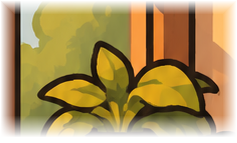
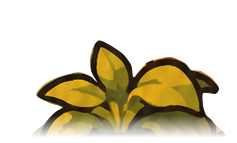
Moka odasi havasi: filtre kesigi, kar, yagmur, simsek, aksam gogu, kapali gecede ay, ogle evresi

diff --git a/src/components/RoomBackdrop.tsx b/src/components/RoomBackdrop.tsx
@@ -9,11 +9,11 @@ import { useActive } from '@/hooks/useActive';
 import type { SkyKind } from '@/lib/weather';
 import { clearNightCondition } from '@/domain/roomScene';
 
-/** Saate göre oda: 06:30-16:29 sabah, 16:30-19:29 akşam, 19:30-06:29 gece. */
+/** Saate göre oda: 06:30-10:59 sabah, 11:00-16:29 öğle, 16:30-19:29 akşam, 19:30-06:29 gece. */
 export function odaPhaseOf(d = new Date()): OdaPhase {
   const h = d.getHours() + d.getMinutes() / 60;
   if (h >= 19.5 || h < 6.5) return 'gece';
-  return h >= 16.5 ? 'aksam' : 'sabah';
+  return h >= 16.5 ? 'aksam' : h >= 11 ? 'ogle' : 'sabah';
 }
 /** Moka'nın oturduğu nokta (o saatin resminde yastığın ortası). */
 export const seatOf = (p: OdaPhase): Pt => ODA[p].seat;
@@ -131,14 +131,38 @@ const MOTES = {
 /** Havaya göre camın rengi ve yoğunluğu. */
 const GLASS: Partial<Record<SkyKind, { tone: string; op: number }>> = {
   cloudy: { tone: '#8C97A8', op: 0.36 }, rain: { tone: '#55657A', op: 0.48 }, storm: { tone: '#1E2533', op: 0.6 },
-  snow: { tone: '#E6EDF5', op: 0.38 }, fog: { tone: '#EEF1F4', op: 0.58 },
+  snow: { tone: '#BAC6D4', op: 0.62 }, fog: { tone: '#EEF1F4', op: 0.58 },
 };
 const SHELF_WALL: Record<OdaPhase, { clip: string; cx: number; cy: number; r: number; color: string }> = {
   sabah: { clip: 'M442 602H665V723H442Z', cx: 554, cy: 661, r: 122, color: '#D9A370' },
   aksam: { clip: 'M430 596H678V728H430Z', cx: 554, cy: 660, r: 128, color: '#BA7B55' },
+  ogle: { clip: 'M442 602H665V723H442Z', cx: 554, cy: 661, r: 122, color: '#F3D6B0' },
   gece: { clip: 'M430 595H678V728H430Z', cx: 554, cy: 660, r: 128, color: '#50343A' },
 };
-const RAIN_N = 12;
+/** Saatin gökyüzü rengi (cam): akşam gün batımı, öğle derin mavi, sabah hafif şeftali. Kapalı havada söner. */
+const SKY_TONE: Partial<Record<OdaPhase, { tone: string; op: number }>> = {
+  sabah: { tone: '#FFD9B0', op: 0.2 }, ogle: { tone: '#4FB3F0', op: 0.2 }, aksam: { tone: '#F2874F', op: 0.62 },
+};
+/** Kapalı havada odaya düşen serin loşluk. */
+const ROOM_WASH: Partial<Record<SkyKind, { tone: string; op: number }>> = {
+  cloudy: { tone: '#5A6472', op: 0.06 }, rain: { tone: '#3E4C5E', op: 0.14 }, storm: { tone: '#28323F', op: 0.24 },
+  snow: { tone: '#7F93AA', op: 0.1 }, fog: { tone: '#8B95A1', op: 0.08 },
+};
+/** Duvardaki ve yerdeki boyalı güneş lekelerini duvar rengine indiren katman (oda koordinatı). */
+const SUN_SHADE: Partial<Record<OdaPhase, number>> = {
+  sabah: require('../assets/oda/sabah_golge.png'),
+  ogle: require('../assets/oda/sabah_golge.png'),
+  aksam: require('../assets/oda/aksam_golge.png'),
+};
+/** Cam maskesinin, resimdeki eski yapraklar yüzünden boş kalan yerleri: hava rengi yaprak çevresinde hale bırakmasın. */
+const GLASS_FILL: Record<OdaPhase, number> = {
+  sabah: require('../assets/oda/sabah_cam_ek.png'),
+  ogle: require('../assets/oda/sabah_cam_ek.png'),
+  aksam: require('../assets/oda/aksam_cam_ek.png'),
+  gece: require('../assets/oda/gece_cam_ek.png'),
+};
+const SUN_SHADE_BOX: Box = { x: 0, y: 590, w: 480, h: 1090 };
+const RAIN_N = 42;
 
 /** Zincirin 7 ampulü: iki uç arasında hafifçe sarkar. */
 const chainPts = (L: OdaLayers) => Array.from({ length: 7 }, (_, i) => {
@@ -205,11 +229,13 @@ const TRAILING_STEMS = 'M313 342L316 342Q319 365 315 385L312 403L309 403L311 382
 const VINE_BACKGROUND_REPAIR = 'M292 290H330V600H292Z';
 const PLANT_SPRITE: Record<OdaPhase, number> = {
   sabah: require('../assets/oda/sabah_asma_detay.png'),
+  ogle: require('../assets/oda/sabah_asma_detay.png'),
   aksam: require('../assets/oda/aksam_asma_detay.png'),
   gece: require('../assets/oda/gece_asma_detay.png'),
 };
 const PLANT_BACKGROUND: Record<OdaPhase, number> = {
   sabah: require('../assets/oda/sabah_asma_zemin.png'),
+  ogle: require('../assets/oda/sabah_asma_zemin.png'),
   aksam: require('../assets/oda/aksam_asma_zemin.png'),
   gece: require('../assets/oda/gece_asma_zemin.png'),
 };
@@ -222,7 +248,7 @@ const HANGING_CUPS = {
 function PlanterBackdrop({ phase, s }: { phase: OdaPhase; s: number }) {
   const id = 'planter-background-' + useId().replace(/[^a-z0-9]/gi, '');
   const { box, src } = ODA[phase].parts.asma;
-  const art = PLANTER[phase];
+  const art = PLANTER[phase === 'ogle' ? 'sabah' : phase];
   return (
     <Svg pointerEvents="none" width={box.w * s} height={box.h * s}
       viewBox={`0 0 ${box.w} ${box.h}`}
@@ -265,9 +291,15 @@ function PhaseLayer({ phase, s, vals, sky, chain, tilt, opacity, weatherOpacity,
   const glass = GLASS[sky];
   const wet = sky === 'rain' || sky === 'storm';
   const snow = sky === 'snow';
+  const covered = sky !== 'clear';
+  const tone = SKY_TONE[phase];
+  const toneOp = !tone ? 0 : tone.op * (sky === 'clear' ? 1 : sky === 'cloudy' ? 0.6 : 0.3);
+  const shade = SUN_SHADE[phase];
   const clouds = true;
   const cloudOpacity = sky === 'clear' ? 0.22 : sky === 'fog' ? 0.14 : wet ? 0.28 : 0.34;
   const big = L.cells.filter(c => c.w >= 60);
+  // Kar geniş camlarda, yağmur bütün camlarda.
+  const fall = snow ? big : L.cells;
   const asma = L.parts.asma;
   // Yaprak asma saksının alt ucundan kopar.
   const leafFrom = { x: asma.box.x + asma.box.w * 0.62, y: asma.box.y + asma.box.h * 0.82 };
@@ -275,6 +307,7 @@ function PhaseLayer({ phase, s, vals, sky, chain, tilt, opacity, weatherOpacity,
     <Animated.View pointerEvents="none" style={{ position: 'absolute', left: 0, top: 0, width: ODA_W * s, height: ODA_H * s, opacity }}>
       <Image source={L.taban} fadeDuration={0} onLoad={onReady} onError={onReady} style={{ width: ODA_W * s, height: ODA_H * s }} resizeMode="stretch" accessibilityIgnoresInvertColors />
       <PlanterBackdrop phase={phase} s={s} />
+      {covered && shade !== undefined && <Animated.Image source={shade} fadeDuration={0} resizeMode="stretch" style={[box(SUN_SHADE_BOX), { opacity: Animated.multiply(weatherOpacity, sky === 'cloudy' ? 0.7 : 1) }]} />}
 
       {/* Soft, phase-matched wall correction ends above the shelf board. */}
       <Svg pointerEvents="none" style={{ position: 'absolute', left: 0, top: 0 }} width={ODA_W * s} height={ODA_H * s} viewBox={'0 0 ' + ODA_W + ' ' + ODA_H}>
@@ -291,6 +324,8 @@ function PhaseLayer({ phase, s, vals, sky, chain, tilt, opacity, weatherOpacity,
       </Svg>
 
       {/* Cam: havaya göre renk, içinde bulut, yağmur, kar, damlalar, şimşek. */}
+      {tone && [L.cam.src, GLASS_FILL[phase]].map((src, i) => <Image key={'tone' + i} source={src} fadeDuration={0} style={[box(L.cam.box), { tintColor: tone.tone, opacity: toneOp }]} />)}
+      {glass && <Animated.Image source={GLASS_FILL[phase]} fadeDuration={0} style={[box(L.cam.box), { tintColor: glass.tone, opacity: Animated.multiply(weatherOpacity, glass.op) }]} />}
       {glass && <Animated.Image source={L.cam.src} style={[box(L.cam.box), { tintColor: glass.tone, opacity: Animated.multiply(weatherOpacity, glass.op) }]} />}
       {sky === 'storm' && <Animated.Image source={L.cam.src} style={[box(L.cam.box), { tintColor: '#F4F7FF', opacity: Animated.multiply(weatherOpacity, vals.flash.interpolate({ inputRange: [0, 0.08, 0.16, 0.24, 1], outputRange: [0, 0.85, 0.1, 0.6, 0] })) }]} />}
       {(clouds || wet || snow) && L.cells.map((c, ci) => (
@@ -305,23 +340,40 @@ function PhaseLayer({ phase, s, vals, sky, chain, tilt, opacity, weatherOpacity,
             />
           )}
           {(wet || snow) && vals.rain.map((r, i) => {
-            if (i % L.cells.length !== ci || (snow && c.w < 60)) return null;
-            const x = (2 + ((i * 37 + ci * 23) % 96)) / 100;
+            if (fall[i % fall.length] !== c || (sky === 'rain' && i >= 30)) return null;
+            const x = (2 + ((i * 7919 + ci * 5081 + (i % 5) * 1733) % 93)) / 100;
             const move = { translateY: r.interpolate({ inputRange: [0, 1], outputRange: [-(snow ? 14 : 30) * s, (c.h + 6) * s] }) };
             return snow ? (
               <Animated.Image
                 key={i}
                 source={PARCA.kar}
                 style={{
-                  position: 'absolute', left: x * c.w * s, top: 0, width: (9 + (i % 3) * 3) * s, height: (8 + (i % 3) * 3) * s, opacity: Animated.multiply(weatherOpacity, 0.95),
+                  position: 'absolute', left: x * c.w * s, top: 0, width: (8 + (i % 4) * 3) * s, height: (7 + (i % 4) * 3) * s, tintColor: '#FFFFFF', opacity: Animated.multiply(weatherOpacity, 0.7 + (i % 3) * 0.15),
                   transform: [move, { translateX: r.interpolate({ inputRange: [0, 0.5, 1], outputRange: [0, (i % 2 ? 9 : -9) * s, 0] }) }, { rotate: r.interpolate({ inputRange: [0, 1], outputRange: ['0deg', `${i % 2 ? 120 : -120}deg`] }) }],
                 }}
               />
             ) : (
-              <Animated.View key={i} style={{ position: 'absolute', left: x * c.w * s, top: 0, width: Math.max(1, 2 * s), height: (22 + (i % 4) * 6) * s, borderRadius: 2, backgroundColor: '#DCEBFA', opacity: Animated.multiply(weatherOpacity, ci < 2 ? 0.85 : 0.68), transform: [move, { rotate: '10deg' }] }} />
+              <Animated.View key={i} style={{ position: 'absolute', left: x * c.w * s, top: 0, width: Math.max(1, 2 * s), height: (22 + (i % 4) * 6) * s, borderRadius: 2, backgroundColor: '#E6F1FC', opacity: Animated.multiply(weatherOpacity, 0.55 + (i % 3) * 0.15), transform: [move, { rotate: sky === 'storm' ? '18deg' : '10deg' }] }} />
             );
           })}
+          {/* Karda bahçe beyazlar, cam çıtalarında kar birikir. */}
+          {snow && c.y > 740 && <Animated.View style={{ position: 'absolute', left: 0, right: 0, bottom: 0, height: c.h * s, backgroundColor: '#F6FAFE', opacity: Animated.multiply(weatherOpacity, phase === 'gece' ? 0.12 : 0.26) }} />}
+          {snow && <Animated.View style={{ position: 'absolute', left: -6 * s, right: -6 * s, bottom: -8 * s, height: (c.y > 740 ? 46 : 20) * s, borderTopLeftRadius: 30 * s, borderTopRightRadius: 22 * s, backgroundColor: phase === 'gece' ? '#D5DFEC' : '#FBFDFF', opacity: weatherOpacity }} />}
         </View>
+      ))}
+      {/* Kapalı gecede ay bulutun arkasında kalır. */}
+      {L.moon && covered && [{ r: 62, o: 1 }, { r: 62, o: 1 }, { r: 84, o: 0.9 }].map((m, i) => (
+        <Animated.Image key={'mooncloud' + i} source={ISIK} style={{ position: 'absolute', left: (L.moon!.x - m.r) * s, top: (L.moon!.y - m.r) * s, width: 2 * m.r * s, height: 2 * m.r * s, tintColor: snow ? '#7E8FA7' : sky === 'fog' ? '#8F9CAE' : sky === 'storm' ? '#222C3C' : '#3C4F69', opacity: Animated.multiply(weatherOpacity, sky === 'cloudy' ? m.o * 0.5 : m.o) }} />
+      ))}
+      {L.moon && covered && sky !== 'cloudy' && (
+        <Animated.View style={{ position: 'absolute', left: (L.moon.x - 37) * s, top: (L.moon.y - 37) * s, width: 74 * s, height: 74 * s, borderRadius: 37 * s, backgroundColor: snow ? '#7E8FA7' : sky === 'fog' ? '#8F9CAE' : sky === 'storm' ? '#222C3C' : '#3C4F69', opacity: Animated.multiply(weatherOpacity, 0.92) }} />
+      )}
+      {sky === 'storm' && big.slice(0, 2).map((c, i) => (
+        <Animated.View key={'bolt' + i} style={[box(c), { overflow: 'hidden', opacity: Animated.multiply(weatherOpacity, vals.flash.interpolate({ inputRange: [0, 0.06, 0.2, 0.26, 0.5, 1], outputRange: [0, 1, i ? 0.2 : 0.7, 1, 0, 0] })) }]}>
+          <Svg width={c.w * s} height={c.h * s} viewBox="0 0 100 180" preserveAspectRatio="none">
+            <Path d={i ? 'M30 0L48 58L36 62L60 120L44 122L66 180' : 'M70 0L52 50L64 54L40 104L52 108L34 180'} fill="none" stroke="#FFF8D8" strokeWidth={5} strokeLinejoin="round" strokeLinecap="round" />
+          </Svg>
+        </Animated.View>
       ))}
       {wet && big.map((c, ci) => vals.drops.map((d, i) => i !== ci ? null : (
         <Animated.Image
@@ -378,7 +430,7 @@ function PhaseLayer({ phase, s, vals, sky, chain, tilt, opacity, weatherOpacity,
       {/* Pervazdaki gövde ve saksı sabit. Yapraklar saksının ağzından esner. */}
       <Animated.View style={{ position: 'absolute', left: 158 * s, top: 951 * s, width: 0, height: 0, transform: [{
         rotate: Animated.add(vals.part.pencerebitki, vals.nudge.pencerebitki).interpolate({
-          inputRange: [-1, 0.5, 2], outputRange: ['-1.9deg', '0deg', '1.9deg'], extrapolate: 'clamp',
+          inputRange: [-1, 0.5, 2], outputRange: ['-1deg', '0deg', '1deg'], extrapolate: 'clamp',
         }),
       }] }}>
         <Image source={L.sillLeaves} resizeMode="stretch" fadeDuration={0} style={{ position: 'absolute', left: -124 * s, top: -126 * s, width: 237 * s, height: 143 * s }} />
@@ -432,6 +484,9 @@ export function RoomBackdrop({ cheer = 0, phase: phaseProp, mix, sky = 'clear', 
   const L = ODA[phase];
   const night = phase === 'gece' ? 1 : 0;
   const dusk = phase === 'aksam' ? 1 : 0;
+  const noon = phase === 'ogle';
+  const sunny = sky === 'clear' || sky === 'cloudy';
+  const wash = ROOM_WASH[sky];
   const reduceM = useReduceMotion();
   const active = useActive();
   const run = !reduceM && active;
@@ -509,10 +564,10 @@ export function RoomBackdrop({ cheer = 0, phase: phaseProp, mix, sky = 'clear', 
     vals.drift.setValue(0);
     if (sky === 'storm') vals.flash.setValue(0);
     const anims: Stop[] = [
-      ...(wet ? vals.rain.map((x, i) => rise(x, sky === 'snow' ? 4200 + (i % 4) * 700 : 700 + (i % 3) * 160, i * (sky === 'snow' ? 330 : 30))) : []),
+      ...(wet ? vals.rain.map((x, i) => rise(x, sky === 'snow' ? 4200 + (i % 4) * 700 : (sky === 'storm' ? 520 : 700) + (i % 3) * 160, (i * (sky === 'snow' ? 2749 : 389)) % (sky === 'snow' ? 5200 : 900))) : []),
       ...(rainy ? vals.drops.map((x, i) => rise(x, 5200 + i * 1300, i * 2100, Easing.in(Easing.quad))) : []),
       rise(vals.drift, 48000),
-      ...(sky === 'storm' ? [every(vals.flash, 9000, 16000, v => Animated.timing(v, { toValue: 1, duration: 900, easing: Easing.linear, useNativeDriver: true, isInteraction: false }), 4000)] : []),
+      ...(sky === 'storm' ? [every(vals.flash, 6000, 11000, v => Animated.timing(v, { toValue: 1, duration: 900, easing: Easing.linear, useNativeDriver: true, isInteraction: false }), 4000)] : []),
     ];
     return () => anims.forEach(a => a.stop());
   }, [run, vals, sky, wet, rainy]);
@@ -650,21 +705,24 @@ export function RoomBackdrop({ cheer = 0, phase: phaseProp, mix, sky = 'clear', 
           {clearNight && starPts.map((p, i) => (
             <Animated.Image key={`st${i}`} source={PARCA.yildiz} pointerEvents="none" style={{ position: 'absolute', left: (p.x - 6) * s, top: (p.y - 6) * s, width: 12 * s, height: 12 * s, tintColor: '#FFFBE0', opacity: vals.stars[i]!.interpolate({ inputRange: [0, 1], outputRange: [0.05, 0.95] }), transform: [{ scale: vals.stars[i]!.interpolate({ inputRange: [0, 1], outputRange: [0.4, 1] }) }] }} />
           ))}
-          {!night && glow(300, 1000, 230, dusk ? '#FFB870' : '#FFD68A', vals.sun.interpolate({ inputRange: [0, 1], outputRange: [0.02, dusk ? 0.24 : 0.18] }))}
+          {!night && sunny && glow(300, 1000, 230, dusk ? '#FFB870' : '#FFD68A', vals.sun.interpolate({ inputRange: [0, 1], outputRange: [0.02, dusk ? 0.24 : 0.18] }))}
 
           {/* Pencere ışığı: sabah sıcak, akşam altın, gece soğuk bir huzme yerde yavaşça kayar; bulut geçince söner. */}
-          {sky !== 'storm' && [0, 1].map(k => (
+          {(night ? clearNight : sunny) && [0, 1].map(k => (
             <Animated.Image
               key={`beam${k}`}
               source={ISIK}
               pointerEvents="none"
               style={{
-                position: 'absolute', left: (150 + k * 40) * s, top: (640 + k * 150) * s, width: 760 * s, height: 150 * s, tintColor: night ? '#B7CBFF' : dusk ? '#FFC27A' : '#FFE7B0',
+                position: 'absolute', left: (150 + k * 40) * s, top: (640 + k * 150) * s, width: 760 * s, height: 150 * s, tintColor: night ? '#B7CBFF' : dusk ? '#FFC27A' : noon ? '#FFF6DC' : '#FFE7B0',
                 opacity: Animated.multiply(Animated.multiply(Animated.multiply(vals.beam.interpolate({ inputRange: [0, 1], outputRange: k ? [0.08, 0.16] : [0.18, 0.1] }), vals.cloud.interpolate({ inputRange: [0, 1], outputRange: [1, 0.15] })), vals.weather), (night ? 0.5 : 1) * (wet || sky === 'cloudy' ? 0.45 : 1)),
                 transform: [{ translateX: vals.beam.interpolate({ inputRange: [0, 1], outputRange: [-18 * s * (k ? -1 : 1), 24 * s * (k ? -1 : 1)] }) }, { rotate: `${16 + k * 7}deg` }],
               }}
             />
           ))}
+
+          {noon && sky === 'clear' && <View pointerEvents="none" style={{ position: 'absolute', left: 0, top: 0, width: W, height: H, backgroundColor: '#FFFFFF', opacity: 0.07 }} />}
+          {wash && <Animated.View pointerEvents="none" style={{ position: 'absolute', left: 0, top: 0, width: W, height: H, backgroundColor: wash.tone, opacity: Animated.multiply(vals.weather, wash.op * (night ? 0.5 : 1)) }} />}
 
           {/* Toz zerreleri: lamba ve pencere ışığında */}
           {motes.map((m, i) => (
@@ -745,7 +803,7 @@ export function RoomBackdrop({ cheer = 0, phase: phaseProp, mix, sky = 'clear', 
             <Animated.Image
               source={ISIK}
               pointerEvents="none"
-              style={{ position: 'absolute', left: (LAMP.x - 260) * s, top: (LAMP.y - 260) * s, width: 520 * s, height: 520 * s, tintColor: '#FFB44D', opacity: Animated.multiply(lampOp, 0.6 + 0.25 * dusk + 0.4 * night + warm * 0.4), transform: [{ scale: Animated.add(vals.halo.interpolate({ inputRange: [0, 1], outputRange: [0.96, 1.05] }), vals.boost.interpolate({ inputRange: [0, 1], outputRange: [0, 0.08] })) }] }}
+              style={{ position: 'absolute', left: (LAMP.x - 260) * s, top: (LAMP.y - 260) * s, width: 520 * s, height: 520 * s, tintColor: '#FFB44D', opacity: Animated.multiply(lampOp, (noon && sunny ? 0.25 : 0.6) + 0.25 * dusk + 0.4 * night + (sunny ? 0 : 0.2) + warm * 0.4), transform: [{ scale: Animated.add(vals.halo.interpolate({ inputRange: [0, 1], outputRange: [0.96, 1.05] }), vals.boost.interpolate({ inputRange: [0, 1], outputRange: [0, 0.08] })) }] }}
             />
           )}
           {lampOn && (

diff --git a/src/constants/oda.ts b/src/constants/oda.ts
@@ -8,7 +8,7 @@ import type { ImageSourcePropType } from 'react-native';
  */
 export const ODA_W = 852;
 export const ODA_H = 1846;
-export type OdaPhase = 'sabah' | 'aksam' | 'gece';
+export type OdaPhase = 'sabah' | 'ogle' | 'aksam' | 'gece';
 export type Box = { x: number; y: number; w: number; h: number };
 export type Pt = { x: number; y: number };
 export type OdaPart = 'asma' | 'rafbitki' | 'pencerebitki' | 'sehpabitki' | 'kupa1' | 'kupa2' | 'kitapust';
@@ -30,7 +30,7 @@ export type OdaLayers = {
   hit: Record<OdaTouch, Box>;
 };
 
-export const ODA: Record<OdaPhase, OdaLayers> = {
+const CIZIM: Record<Exclude<OdaPhase, 'ogle'>, OdaLayers> = {
   sabah: {
     sillLeaves: require('../assets/oda/sabah_sill.png'),
     taban: require('../../assets/oda/sabah_taban.webp'),
@@ -66,7 +66,7 @@ export const ODA: Record<OdaPhase, OdaLayers> = {
       kupa2: { src: require('../../assets/oda/aksam_kupa2.webp'), box: { x: 549, y: 614, w: 105, h: 114 }, pivot: { x: 597, y: 616 } },
       kitapust: { src: require('../../assets/oda/aksam_kitapust.webp'), box: { x: 554, y: 404, w: 137, h: 155 }, pivot: { x: 562, y: 559 } },
     },
-    yaprak: { src: require('../../assets/oda/aksam_yaprak.webp'), w: 45, h: 48 },
+    yaprak: { src: require('../../assets/oda/sabah_yaprak.webp'), w: 44, h: 48 },
     seat: { x: 395, y: 1329 }, lamp: { x: 778, y: 839 }, chemex: { x: 466, y: 435 }, mug: { x: 551, y: 486 },
     chain: [{ x: 332, y: 374 }, { x: 652, y: 373 }],
     hit: { lamba: { x: 685, y: 758, w: 159, h: 173 }, kupa: { x: 461, y: 596, w: 186, h: 137 }, surahi: { x: 406, y: 412, w: 112, h: 148 }, bitki: { x: 556, y: 870, w: 176, h: 173 }, pencere: { x: 7, y: 281, w: 207, h: 723 } },
@@ -86,12 +86,14 @@ export const ODA: Record<OdaPhase, OdaLayers> = {
       kupa2: { src: require('../../assets/oda/gece_kupa2.webp'), box: { x: 548, y: 613, w: 104, h: 115 }, pivot: { x: 596, y: 615 } },
       kitapust: { src: require('../../assets/oda/gece_kitapust.webp'), box: { x: 552, y: 407, w: 137, h: 153 }, pivot: { x: 560, y: 560 } },
     },
-    yaprak: { src: require('../../assets/oda/gece_yaprak.webp'), w: 47, h: 48 },
+    yaprak: { src: require('../../assets/oda/sabah_yaprak.webp'), w: 44, h: 48 },
     seat: { x: 394, y: 1329 }, lamp: { x: 776, y: 840 }, chemex: { x: 465, y: 435 }, mug: { x: 550, y: 487 }, moon: { x: 99, y: 660 },
     chain: [{ x: 331, y: 374 }, { x: 650, y: 374 }],
     hit: { lamba: { x: 683, y: 759, w: 158, h: 172 }, kupa: { x: 460, y: 596, w: 186, h: 137 }, surahi: { x: 405, y: 413, w: 112, h: 147 }, bitki: { x: 554, y: 871, w: 176, h: 173 }, pencere: { x: 7, y: 281, w: 207, h: 723 } },
   },
 };
+/** Öğle, sabah resmini kullanır; ışığı, göğü ve lambası ayrıdır (RoomBackdrop). */
+export const ODA: Record<OdaPhase, OdaLayers> = { ...CIZIM, ogle: CIZIM.sabah };
 
 export const ISIK = require('../../assets/oda/isik.webp') as ImageSourcePropType;
 /** v6 parçacıkları (tek kare): buhar, kar, cam damlası, yıldız ışıltısı, bulut. */
